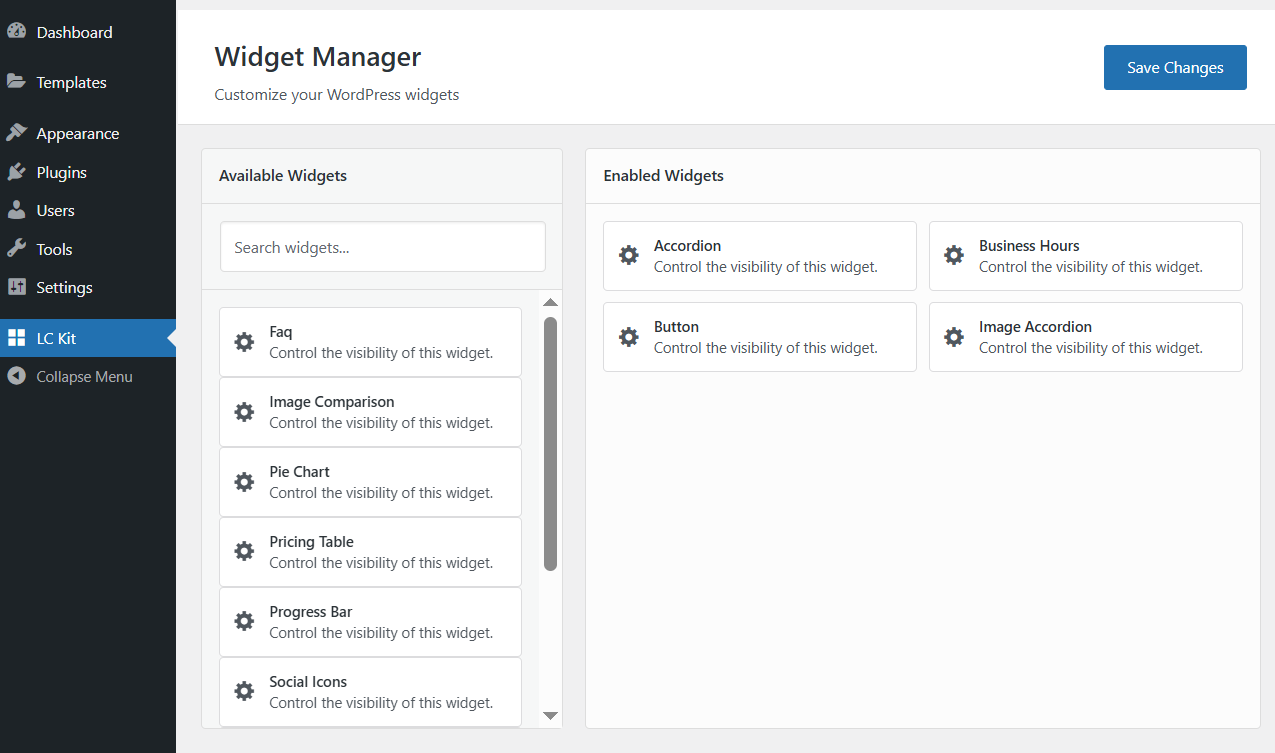
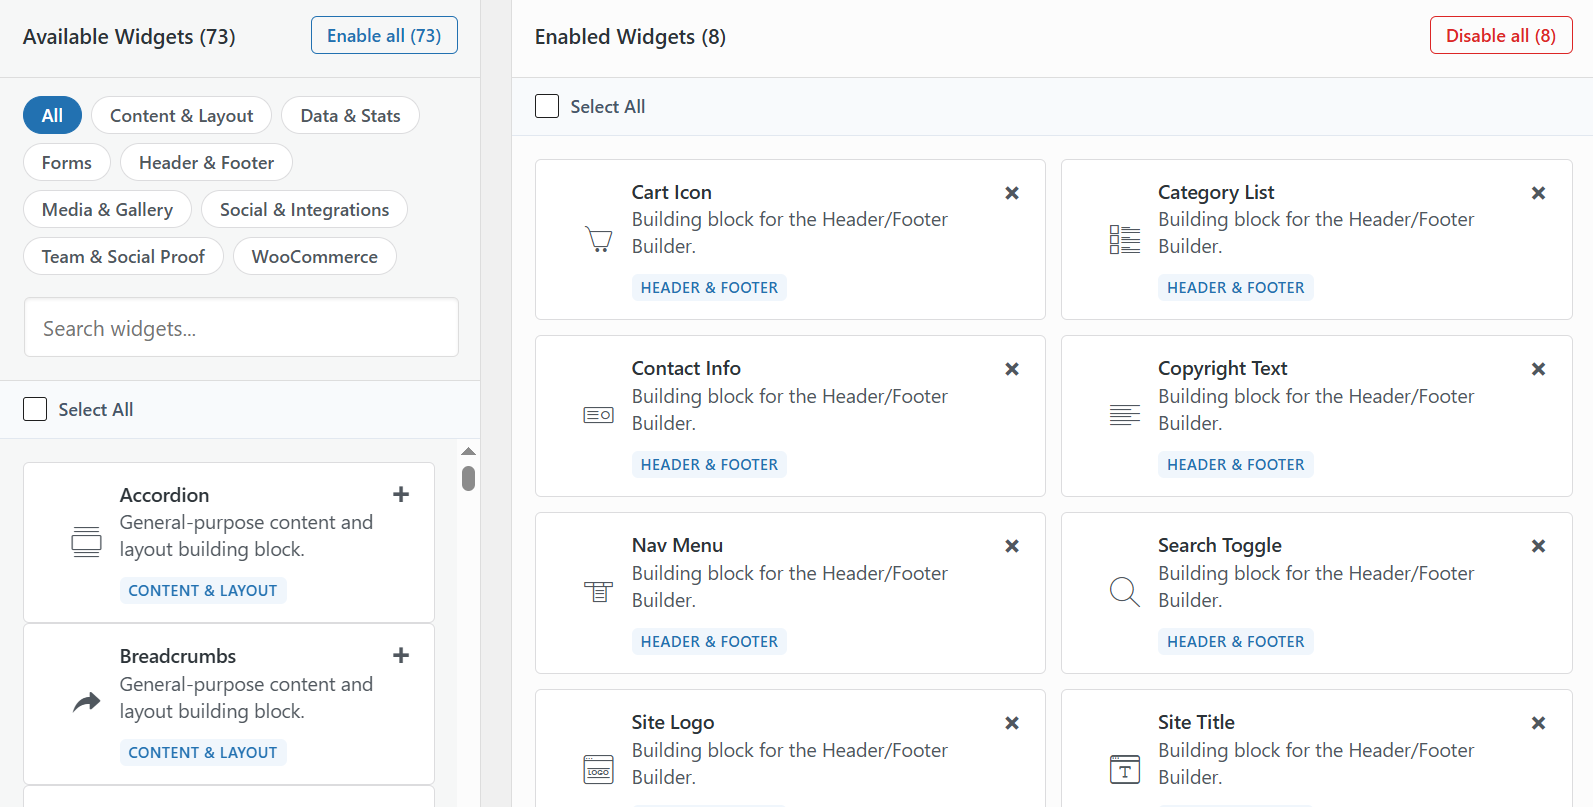
update readme and screenshots

diff --git a/lc-addons-kit-for-elementor.php b/lc-addons-kit-for-elementor.php
@@ -2,11 +2,11 @@
 
 /**
  * Plugin Name: LC Addons Kit for Elementor
- * Plugin URI: https://lionecoders.com
+ * Plugin URI: https://mveous.com
  * Description: A powerful Elementor addon plugin that offers a wide range of widgets categorized into 'LC Kit'.
- * Version: 1.1.1
- * Author: Lionecoders
- * Author URI: https://lionecoders.com
+ * Version: 1.2.1
+ * Author: Mveous
+ * Author URI: https://mveous.com
  * Text Domain: lc-addons-kit-for-elementor
  * Requires at least: 5.0
  * Tested up to: 7.0
@@ -50,7 +50,7 @@ class LCAKE_Elementor_Addons_Kit {
 	 * @return void
 	 */
 	private function define_constants() {
-		define( 'LCAKE_EAK_VERSION', '1.1.12' );
+		define( 'LCAKE_EAK_VERSION', '1.2.1' );
 		define( 'LCAKE_EAK_PATH', plugin_dir_path( __FILE__ ) );
 		define( 'LCAKE_EAK_URL', plugin_dir_url( __FILE__ ) );
 	}

diff --git a/README.md b/README.md
@@ -4,7 +4,7 @@ A powerful Elementor addon plugin that offers 83 widgets categorized into 'LC Ki
 
 ## Description
 
-**LC Elementor Addons Kit** is a comprehensive Elementor addon plugin developed by Lionecoders that provides a wide range of professional widgets to enhance your Elementor page building experience.
+**LC Elementor Addons Kit** is a comprehensive Elementor addon plugin that provides a wide range of professional widgets to enhance your Elementor page building experience.
 
 ### 🎯 Core Features
 
@@ -14,23 +14,21 @@ A powerful Elementor addon plugin that offers 83 widgets categorized into 'LC Ki
 * **Modern UI**: Beautiful and responsive admin interface
 * **Performance Optimized**: Lightweight and fast loading
 
-### 📦 LC Header & Footer Widgets (9 Widgets)
+### 📦 LC Header & Footer Widgets (8 Widgets)
 
 * Cart Icon
 * Category List
 * Contact Info
 * Copyright Text
 * Nav Menu
-* Post Grid
 * Search Toggle
 * Site Logo
 * Site Title
 
-### 📦 LC Kit Widgets (74 Widgets)
+### 📦 LC Kit Widgets (73 Widgets)
 
 * Accordion
 * Advanced Data Table
-* Better Payment
 * Betterdocs Category Box
 * Betterdocs Category Grid
 * Betterdocs Search Form
@@ -131,8 +129,8 @@ A powerful Elementor addon plugin that offers 83 widgets categorized into 'LC Ki
 
 ### How do I enable/disable widgets?
 
-1. Go to **LC Kit** in your WordPress admin menu
-2. Use the toggle switches to enable/disable widgets
+1. Go to **LC Kit > Widget Manager** in your WordPress admin menu
+2. Select the widgets to enable or disable.
 3. Widgets are organized by category for easy management
 4. Save settings to apply changes
 
@@ -168,8 +166,8 @@ This plugin is specifically designed for Elementor and requires Elementor to be 
 ## Usage
 
 ### Admin Dashboard
-1. Go to **LC Kit** in your WordPress admin menu
-2. Use the toggle switches to enable/disable widgets
+1. Go to **LC Kit > Widget Manager** in your WordPress admin menu
+2. Select the widgets to enable or disable.
 3. Widgets are organized by category for easy management
 4. Save settings to apply changes
 
@@ -178,7 +176,6 @@ This plugin is specifically designed for Elementor and requires Elementor to be 
 2. Look for **LC Kit** and **LC Header & Footer kit** categories
 3. Drag and drop enabled widgets to your layout
 4. Customize widget settings in the Elementor panel
-
 
 ## Performance
 
@@ -195,6 +192,16 @@ This plugin is specifically designed for Elementor and requires Elementor to be 
 
 ## Changelog
 
+### 1.2.1
+* Added LC Header Footer Kit Widgets.
+* Added Template Create System.
+* Added 70+ more widgets.
+* Update Admin Dashboard UI for a better user experience.
+
+### 1.1.1
+* Fix minor issues.
+* Tested Upto WordPress 7.0
+
 ### 1.1.0
 * Added LC Contact Form 7, LC MailChimp, LC Funfact, LC Countdown Timer, LC Drop Caps, LC Heading widgets, LC Image Box.
 * Tested Upto Elementor 4.0.
@@ -204,10 +211,6 @@ This plugin is specifically designed for Elementor and requires Elementor to be 
 
 ### 1.0.0
 * Initial release
-
-## Credits
-
-Developed by [Lionecoders](https://lionecoders.com)
 
 ## License
 
